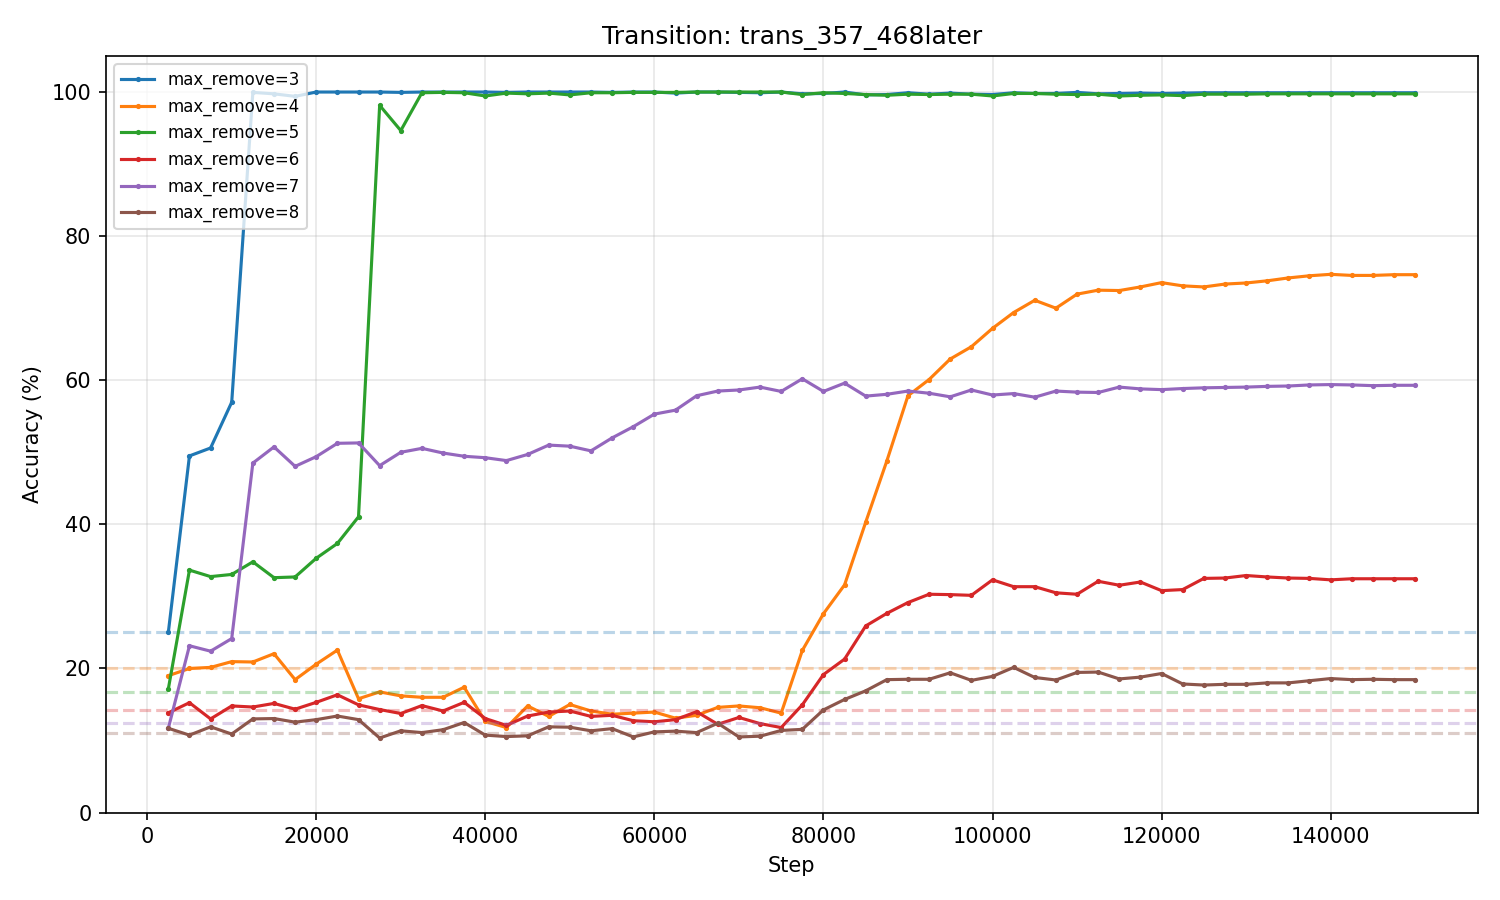
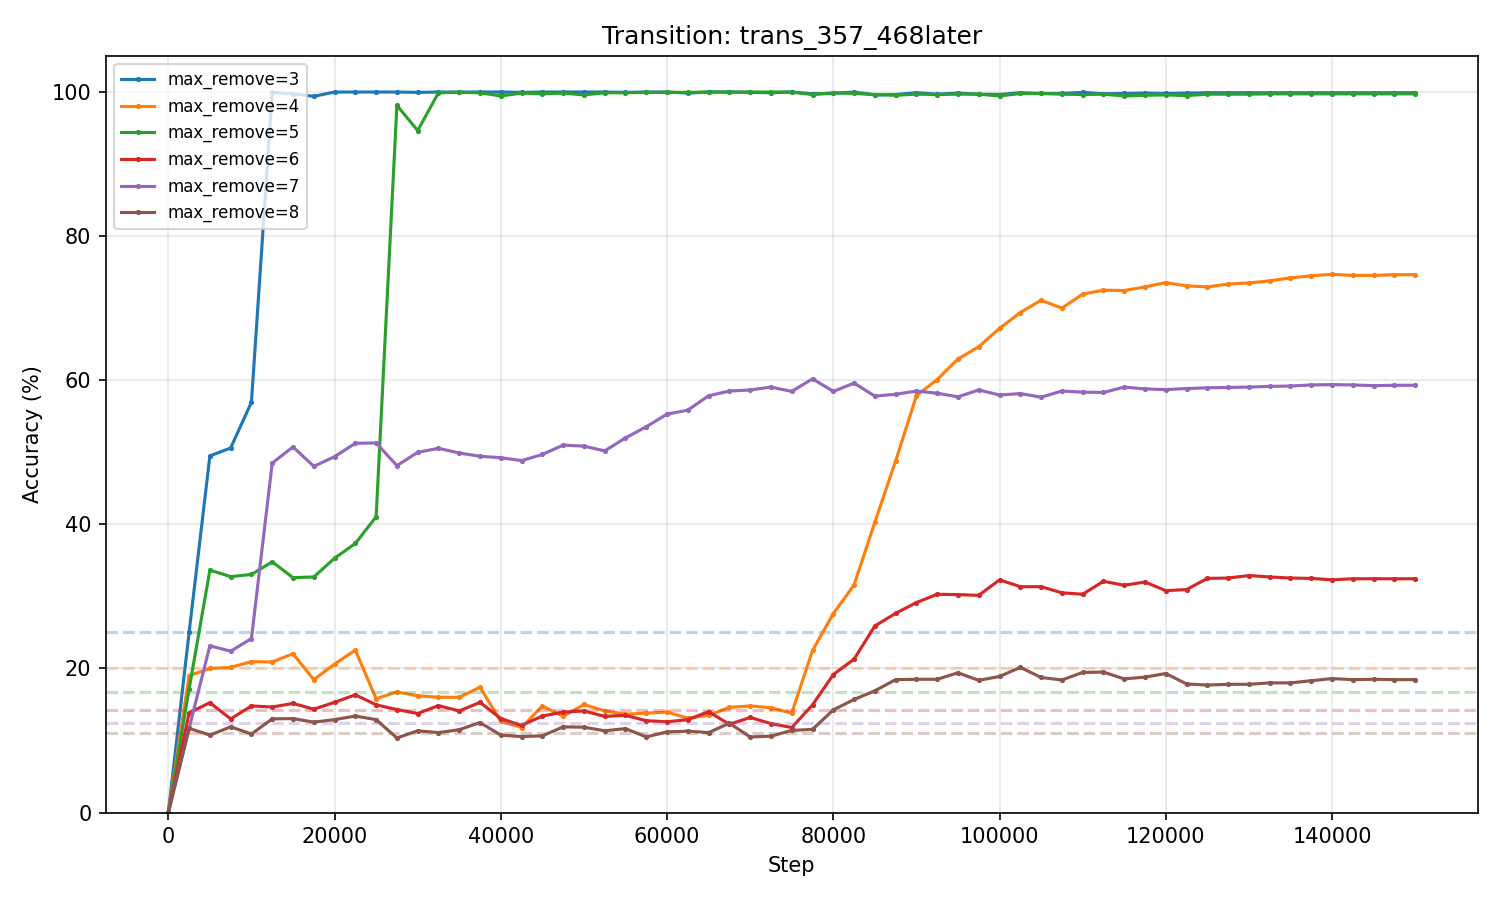
eval

diff --git a/eval_train_acc_transition.py b/eval_train_acc_transition.py
@@ -1,0 +1,166 @@
+"""
+For each saved checkpoint of a transition run, load model from HF Hub and
+measure TRAIN accuracy on first-phase and second-phase train files,
+broken down by max_remove.
+
+Usage:
+    python eval_train_acc_transition.py <first> <second> [seed]
+    e.g. python eval_train_acc_transition.py 468 357_later 42
+         python eval_train_acc_transition.py 368 457_later 42
+"""
+import sys
+import os
+import json
+import re
+import torch
+from torch.utils.data import DataLoader, Dataset
+from transformers import AutoTokenizer, AutoModelForCausalLM
+from huggingface_hub import HfApi
+
+first = sys.argv[1]
+second = sys.argv[2]
+SEED = int(sys.argv[3]) if len(sys.argv) > 3 else 42
+
+DATA_MAP = {
+    "357": "/u/iyu1/nim_game_project/data/train/357_train.jsonl",
+    "468": "/u/iyu1/nim_game_project/data/train/468_train.jsonl",
+    "368": "/u/iyu1/nim_game_project/data/train/368_train.jsonl",
+    "457": "/u/iyu1/nim_game_project/data/train/457_train.jsonl",
+    "357_later": "/u/iyu1/nim_game_project/data/train/mixed_training/357_later_train.jsonl",
+    "468_later": "/u/iyu1/nim_game_project/data/train/mixed_training/468_later_train.jsonl",
+    "457_later": "/u/iyu1/nim_game_project/data/train/mixed_training/457_later_train.jsonl",
+    "368_later": "/u/iyu1/nim_game_project/data/train/mixed_training/368_later_train.jsonl",
+}
+
+HF_REPO = f"ijinyu1113/transition_{first}_{second}_seed{SEED}_v3"
+RESULTS_FILE = f"results/train_acc_{first}_{second}_seed{SEED}.jsonl"
+DEVICE = "cuda" if torch.cuda.is_available() else "cpu"
+MAX_LENGTH = 128
+BATCH_SIZE = 64
+EVAL_LIMIT = 2000  # samples per train file to keep eval fast
+
+MOVE_RE = re.compile(r"take\s+(-?\d+)\s+coin", re.IGNORECASE)
+INT_RE = re.compile(r"-?\d+")
+
+def extract_move(text):
+    m = MOVE_RE.search(text)
+    if m:
+        return int(m.group(1))
+    m = INT_RE.search(text)
+    return int(m.group(0)) if m else None
+
+def extract_max_remove(prompt):
+    m = re.search(r"take between 1 and (\d+) coin", prompt)
+    return int(m.group(1)) if m else None
+
+class NimEvalDataset(Dataset):
+    def __init__(self, jsonl_path, tokenizer, limit=None):
+        with open(jsonl_path, "r") as f:
+            raw = [json.loads(line) for line in f]
+        if limit:
+            raw = raw[:limit]
+        self.tokenizer = tokenizer
+        self.samples = []
+        for item in raw:
+            mr = extract_max_remove(item["prompt"])
+            if mr is not None and 3 <= mr <= 8:
+                self.samples.append({**item, "max_remove": mr})
+
+    def __len__(self):
+        return len(self.samples)
+
+    def __getitem__(self, idx):
+        item = self.samples[idx]
+        full_text = item["prompt"] + item["answer"]
+        tokens = self.tokenizer(full_text, truncation=True, max_length=MAX_LENGTH,
+                                padding="max_length", return_tensors="pt")
+        input_ids = tokens["input_ids"].squeeze(0)
+        attention_mask = tokens["attention_mask"].squeeze(0)
+        labels = input_ids.clone()
+        prompt_len = len(self.tokenizer.encode(item["prompt"], add_special_tokens=False))
+        labels[:prompt_len] = -100
+        labels[attention_mask == 0] = -100
+        return {"input_ids": input_ids, "attention_mask": attention_mask,
+                "labels": labels, "max_remove": item["max_remove"]}
+
+def evaluate(model, tokenizer, loader):
+    model.eval()
+    correct = {i: 0 for i in range(3, 9)}
+    total = {i: 0 for i in range(3, 9)}
+    with torch.no_grad():
+        for batch in loader:
+            mrs = batch.pop("max_remove")
+            batch = {k: v.to(DEVICE) for k, v in batch.items()}
+            logits = model(input_ids=batch["input_ids"],
+                           attention_mask=batch["attention_mask"]).logits
+            preds = logits.argmax(dim=-1)
+            labels = batch["labels"]
+            mask = labels != -100
+            for b in range(labels.size(0)):
+                m = mask[b]
+                if m.sum() == 0:
+                    continue
+                mr = mrs[b].item()
+                if mr not in total:
+                    continue
+                total[mr] += 1
+                pred_text = tokenizer.decode(preds[b][m], skip_special_tokens=True).strip().lower()
+                gold_text = tokenizer.decode(labels[b][m], skip_special_tokens=True).strip().lower()
+                pred_move = extract_move(pred_text)
+                gold_move = extract_move(gold_text)
+                if pred_move is not None and gold_move is not None and pred_move == gold_move:
+                    correct[mr] += 1
+    return {f"acc_{mr}": (correct[mr] / total[mr] if total[mr] > 0 else 0.0) for mr in range(3, 9)}
+
+def main():
+    os.makedirs("results", exist_ok=True)
+    print(f"Repo: {HF_REPO}")
+
+    api = HfApi()
+    branches = api.list_repo_refs(HF_REPO).branches
+    ckpts = sorted(
+        [b.name for b in branches if b.name.startswith("step-") and b.name.split("step-")[1].isdigit()],
+        key=lambda x: int(x.split("step-")[1])
+    )
+    print(f"Found {len(ckpts)} checkpoints: {ckpts}")
+
+    tokenizer = AutoTokenizer.from_pretrained(HF_REPO, revision=ckpts[0])
+    if tokenizer.pad_token is None:
+        tokenizer.pad_token = tokenizer.eos_token
+
+    ds_first = NimEvalDataset(DATA_MAP[first], tokenizer, limit=EVAL_LIMIT)
+    ds_second = NimEvalDataset(DATA_MAP[second], tokenizer, limit=EVAL_LIMIT)
+    loader_first = DataLoader(ds_first, batch_size=BATCH_SIZE, shuffle=False)
+    loader_second = DataLoader(ds_second, batch_size=BATCH_SIZE, shuffle=False)
+
+    with open(RESULTS_FILE, "w") as f:
+        for ckpt in ckpts:
+            step = int(ckpt.split("step-")[1])
+            print(f"\n--- {ckpt} ---")
+            model = AutoModelForCausalLM.from_pretrained(HF_REPO, revision=ckpt).to(DEVICE)
+
+            res_first = evaluate(model, tokenizer, loader_first)
+            # Second-phase file only meaningful after the transition
+            res_second = evaluate(model, tokenizer, loader_second) if step >= 75000 else None
+
+            row = {
+                "step": step,
+                "ckpt": ckpt,
+                "first_file": first,
+                "second_file": second,
+                "first": res_first,
+                "second": res_second,
+            }
+            print(f"  {first}: " + " | ".join(f"acc_{mr}={res_first[f'acc_{mr}']:.4f}" for mr in range(3, 9)))
+            if res_second is not None:
+                print(f"  {second}: " + " | ".join(f"acc_{mr}={res_second[f'acc_{mr}']:.4f}" for mr in range(3, 9)))
+            f.write(json.dumps(row) + "\n")
+            f.flush()
+
+            del model
+            torch.cuda.empty_cache()
+
+    print(f"\nSaved {RESULTS_FILE}")
+
+if __name__ == "__main__":
+    main()

diff --git a/probe_ablation.py b/probe_ablation.py
@@ -122,27 +122,34 @@ def get_target_idx(seq, item, tokenizer, strategy):
     span = spans[0] if occurrence == "first" else spans[-1]
     return span[0] if end == "first" else span[1] - 1
 
-def extract_features(model, dataset, tokenizer, layers, strategy):
+def extract_all_hidden(model, dataset, tokenizer, layers, batch_size=256):
+    """One forward pass over the dataset; returns per-sample hidden states for all
+    layers AND token ids, so any token-strategy can be applied afterwards without
+    re-running the model."""
     model.eval()
-    storage = {l: [] for l in layers}
-    batch_size = 64
+    hs_storage = {l: [] for l in layers}
+    ids_storage = []
     for i in range(0, len(dataset), batch_size):
         batch = dataset[i : i + batch_size]
         prompts = [item["prompt"] for item in batch]
-        inputs = tokenizer(prompts, padding=True, truncation=True, max_length=256, return_tensors="pt").to(DEVICE)
-
-        target_idxs = []
-        for b_idx, item in enumerate(batch):
-            seq = inputs["input_ids"][b_idx].tolist()
-            idx = get_target_idx(seq, item, tokenizer, strategy)
-            target_idxs.append(idx)
-
+        inputs = tokenizer(prompts, padding="max_length", truncation=True, max_length=256, return_tensors="pt").to(DEVICE)
         with torch.no_grad():
             out = model(**inputs, output_hidden_states=True)
             for l in layers:
-                hidden = out.hidden_states[l]
-                storage[l].append(hidden[torch.arange(len(batch)), target_idxs].cpu())
-    return {l: torch.cat(storage[l], dim=0) for l in layers}
+                hs_storage[l].append(out.hidden_states[l].to(torch.float32).cpu())
+        ids_storage.append(inputs["input_ids"].cpu())
+    return ({l: torch.cat(hs_storage[l], dim=0) for l in layers},
+            torch.cat(ids_storage, dim=0))
+
+def select_strategy_features(all_hidden, all_ids, dataset, tokenizer, layers, strategy):
+    """Index cached hidden states at the strategy-specific target token per sample."""
+    target_idxs = []
+    for i, item in enumerate(dataset):
+        seq = all_ids[i].tolist()
+        target_idxs.append(get_target_idx(seq, item, tokenizer, strategy))
+    target_idxs = torch.tensor(target_idxs, dtype=torch.long)
+    rows = torch.arange(len(dataset))
+    return {l: all_hidden[l][rows, target_idxs] for l in layers}
 
 def train_probe(X_train, Y_train, X_eval, Y_eval, input_dim):
     X_train, Y_train = X_train.to(DEVICE), Y_train.to(DEVICE)
@@ -177,13 +184,18 @@ if __name__ == "__main__":
 
     results = {}
 
+    print("\nExtracting hidden states once for the whole dataset...")
+    train_hidden, train_ids = extract_all_hidden(model, train_data, tokenizer, LAYERS)
+    eval_hidden, eval_ids = extract_all_hidden(model, eval_data, tokenizer, LAYERS)
+    print("Done extracting. Now running probes per strategy.")
+
     for strat_name, strat_key in TOKEN_STRATEGIES.items():
         print(f"\n{'='*60}")
         print(f"Strategy: {strat_name}")
         print(f"{'='*60}")
 
-        train_feats = extract_features(model, train_data, tokenizer, LAYERS, strat_key)
-        eval_feats = extract_features(model, eval_data, tokenizer, LAYERS, strat_key)
+        train_feats = select_strategy_features(train_hidden, train_ids, train_data, tokenizer, LAYERS, strat_key)
+        eval_feats = select_strategy_features(eval_hidden, eval_ids, eval_data, tokenizer, LAYERS, strat_key)
 
         results[strat_name] = {}
         for l in LAYERS:

diff --git a/plot_new_results.py b/plot_new_results.py
@@ -262,10 +262,14 @@ def plot_transition_single(filepath, title, outname):
         print(f"No eval data in {filepath}, skipping")
         return
 
+    # Prepend step 0 with acc=0 for all max_removes
+    steps = [0] + data["steps"]
+    accs = {k: [0.0] + data["accs"][k] for k in range(3, 9)}
+
     fig, ax = plt.subplots(figsize=(10, 6))
     colors = plt.cm.tab10(range(6))
     for idx, k in enumerate(range(3, 9)):
-        ax.plot(data["steps"], data["accs"][k], marker=".", markersize=3,
+        ax.plot(steps, accs[k], marker=".", markersize=3,
                 label=f"max_remove={k}", color=colors[idx])
         # Random baseline
         ax.axhline(100 / (k + 1), color=colors[idx], linestyle="--", alpha=0.3)
